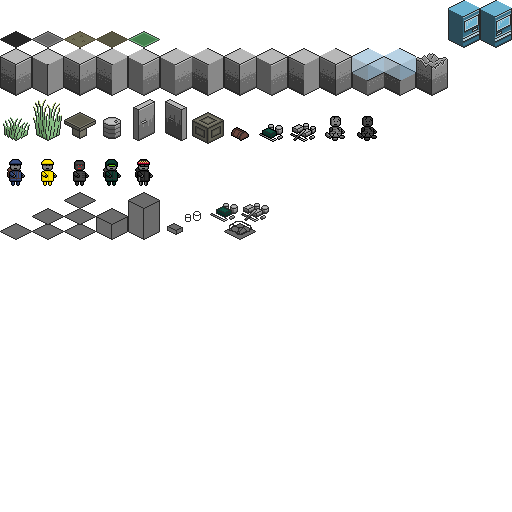
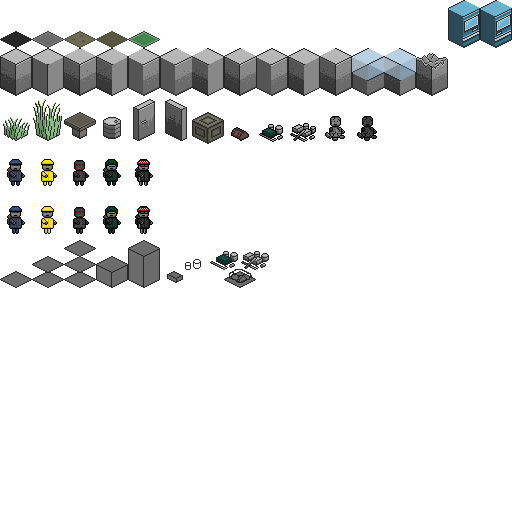
Added AnimatedSpriteRenderer and simple walking animation to player

Changed region(s): [[0.0, 0.375, 0.375, 0.5625], [0.375, 0.375, 0.5312, 0.5625]]

diff --git a/client/js/resource_manager.js b/client/js/resource_manager.js
@@ -13,6 +13,22 @@ class ResourceManager {
     this._floorTiles = [0,1,2,3,4];
     this._wallsTiles = [14,15,16,17,18,19,20,21,22,23,24,25,26,27,28, 34,35, 38, 49, 51];
     this._playerTile = 48;
+
+    const Rect = ResourceManager.getSpriteRectByIndex;
+
+    // animation frames = [[Rect(spriteIndex), frame time in seconds], ...]
+    this._animationsData = {
+      player: [
+        {
+          name: 'idle',
+          frames: [[Rect(48), 1]]
+        },
+        {
+          name: 'walk',
+          frames: [[Rect(48), 0.2], [Rect(64), 0.2]]
+        }
+      ]
+    };
   }
 
   static get texture() {
@@ -25,6 +41,10 @@ class ResourceManager {
 
   static get tileHeight() {
     return this._tileHeight;
+  }
+
+  static get halfSpriteVector() {
+    return new Vector2(this._spriteWidth / 2, this._spriteHeight / 2);
   }
 
   static get spriteWidth() {
@@ -47,7 +67,7 @@ class ResourceManager {
     return this._playerTile;
   }
 
-  static getSpriteRectByIndex(index) {
+  static getSpriteRectByIndex = (index) => {
     const maxPos = this._textureSize / this._spriteWidth;
     return {
       x: this._spriteWidth * (index % maxPos),
@@ -55,5 +75,22 @@ class ResourceManager {
       w: this._spriteWidth,
       h: this._spriteHeight
     }
+  }
+
+  static getAnimationsByBaseType(baseType) {
+    const entityAnimations = this._animationsData[baseType];
+    let animations = {};
+    for (let i = 0; i < entityAnimations.length; i++) {
+      let animation = entityAnimations[i];
+      let frames = [];
+      for (let j = 0; j < animation.frames.length; j++) {
+        frames.push({
+          rect: animation.frames[j][0],
+          time: animation.frames[j][1]
+        });
+      }
+      animations[animation.name] = new Animation(animation.name, frames);
+    }
+    return animations;
   }
 }

diff --git a/client/js/renderer.js b/client/js/renderer.js
@@ -21,8 +21,12 @@ class SpriteRenderer extends Renderer {
     this._rect = rect;
   }
 
+  get rect() {
+    return this._rect;
+  }
+
   render(display) {
-    const src = this._rect;
+    const src = this.rect;
     const destPos = display.getRenderPos(this.entity.pos);
     const dest = {
       x: destPos.x,
@@ -47,6 +51,55 @@ class SpriteRenderer extends Renderer {
     display.context.imageSmoothingEnabled = !(display.zoomLevel % 1 === 0);
     display.context.drawImage(this._texture, src.x, src.y, src.w, src.h, dest.x, dest.y, dest.w, dest.h);
     display.context.globalAlpha = 1;
+  }
+}
+
+class AnimatedSpriteRenderer extends SpriteRenderer {
+  constructor(layer, texture, animations) {
+    super(layer, texture, null);
+    this._animations = animations;
+    this._animation = animations['idle'];
+  }
+
+  get rect() {
+    return this._animation.frame.rect;
+  }
+
+  setAnimation(name) {
+    this._animation = this._animations[name];
+  }
+}
+
+class Animation {
+  constructor(name, frames) {
+    this._name = name;
+    this._frames = frames;
+
+    this._animationTime = 0; // progress time
+    this._animationLength = 0;
+    for (let i = 0; i < frames.length; i++) {
+      this._animationLength += frames[i].time;
+    }
+    console.log(`Created animation: `, this);
+  }
+
+  get name() {
+    return this._name;
+  }
+
+  get frame() {
+    this._animationTime += Time.deltaTime;
+    const progress = this._animationTime / this._animationLength;
+    if (progress > 1) {
+      this._animationTime -= this._animationLength;
+    }
+
+    let i = 0;
+    let t = this._frames[i].time;
+    while (t < this._animationTime) {
+      t += this._frames[i++].time;
+    }
+    return this._frames[i];
   }
 }
 

diff --git a/client/js/entity/entity_manager.js b/client/js/entity/entity_manager.js
@@ -49,6 +49,7 @@ class EntityManager {
       hoverPos = this._game.display.getRenderPos(hoverPos);
       const ctx = this._game.display.context;
       ctx.strokeStyle = pointerUnitData.hasActions ? 'greenyellow' : 'red';
+      ctx.lineWidth = 2;
       ctx.beginPath();
       ctx.moveTo(
         hoverPos.x,
@@ -143,10 +144,10 @@ class EntityManager {
 
   static createPlayer(data) {
     const pos = new Vector2(data.pos.x, data.pos.y);
-    const renderer = new SpriteRenderer(
+    const renderer = new AnimatedSpriteRenderer(
       RenderLayer.Walls,
       ResourceManager.texture,
-      ResourceManager.getSpriteRectByIndex(ResourceManager.playerTile)
+      ResourceManager.getAnimationsByBaseType('player')
       );
     const player = new Character(data.networkId, pos, renderer, data.name, data.actions);
     this._add(player);

diff --git a/client/js/entity/entity.js b/client/js/entity/entity.js
@@ -80,6 +80,7 @@ class Character extends Entity {
   setPath(path) {
     this.state = 'moving';
     this.path = path;
+    this.renderer.setAnimation('walk');
   }
 
   update(game) {
@@ -112,6 +113,7 @@ class Character extends Entity {
   move() {
     if (!this.path) {
       this.state = 'idle';
+      this.renderer.setAnimation('idle');
       return;
     }
 
@@ -145,6 +147,7 @@ class Character extends Entity {
         }
         else {
           this.state = 'idle';
+          this.renderer.setAnimation('idle');
           this.path = null;
           return;
         }
